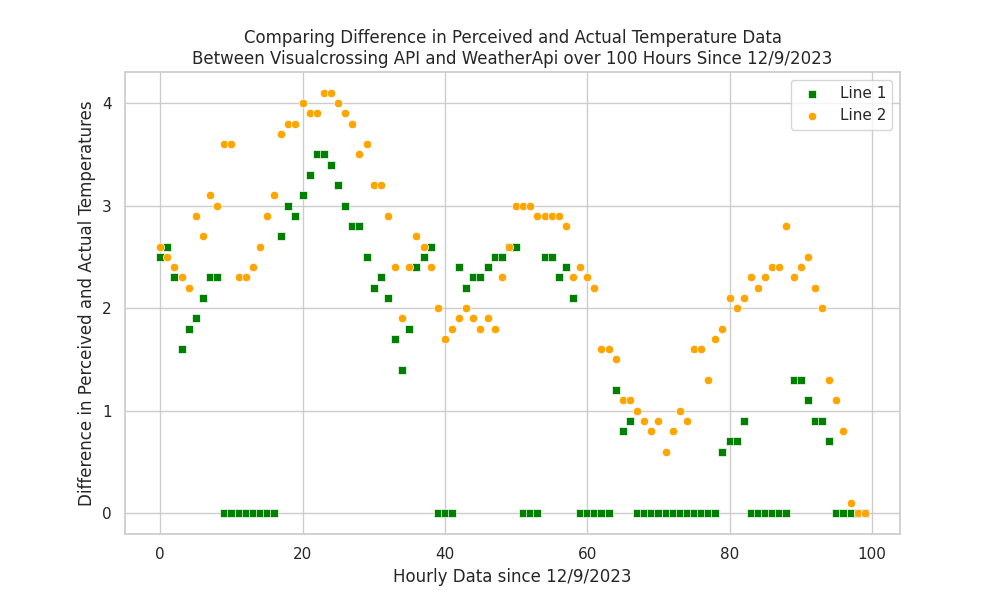
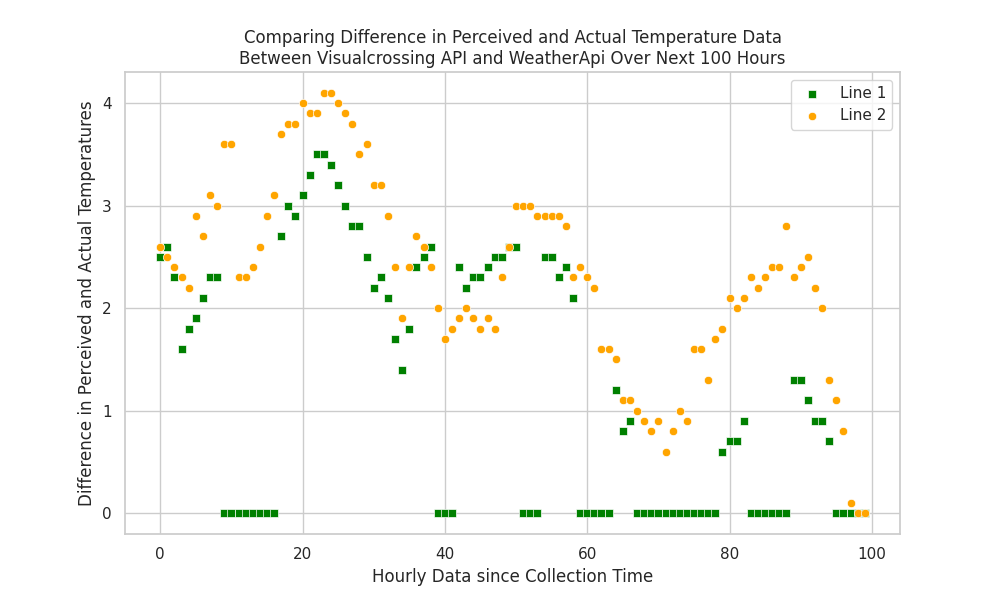
code

Changed region(s): [[0.186, 0.09, 0.837, 0.12], [0.372, 0.93, 0.651, 0.99]]

diff --git a/difference_vis.py b/difference_vis.py
@@ -50,9 +50,9 @@ def difference_vis():
     sns.scatterplot(x=time, y=vs, label='Line 1', color='green', marker='s')
     sns.scatterplot(x=time, y=wa, label='Line 2', color='orange')
 
-    plt.xlabel('Hourly Data since 12/9/2023')
+    plt.xlabel('Hourly Data since Collection Time')
     plt.ylabel('Difference in Perceived and Actual Temperatures')
-    plt.title('Comparing Difference in Perceived and Actual Temperature Data\nBetween Visualcrossing API and WeatherApi over 100 Hours Since 12/9/2023')
+    plt.title('Comparing Difference in Perceived and Actual Temperature Data\nBetween Visualcrossing API and WeatherApi Over Next 100 Hours')
     plt.legend()
 
     plt.savefig('difference_scatter.png')

diff --git a/average_vis.py b/average_vis.py
@@ -15,9 +15,9 @@ def average_vis():
 
     plt.plot(time, val, color='red', linestyle='dashed')
 
-    plt.xlabel('Hourly Data since 12/9/2023')
+    plt.xlabel('Hourly Data since Collection Time')
     plt.ylabel('Average Wind Speed')
-    plt.title('Comparing Average Difference in Wind Speed Between\nVisualcrossing API and WeatherApi Over 100 Hours since 12/9/2023')
+    plt.title('Comparing Average Difference in Wind Speed Between\nVisualcrossing API and WeatherApi Over Next 100 Hours')
 
     plt.savefig('avg_line.png')
     plt.close()
